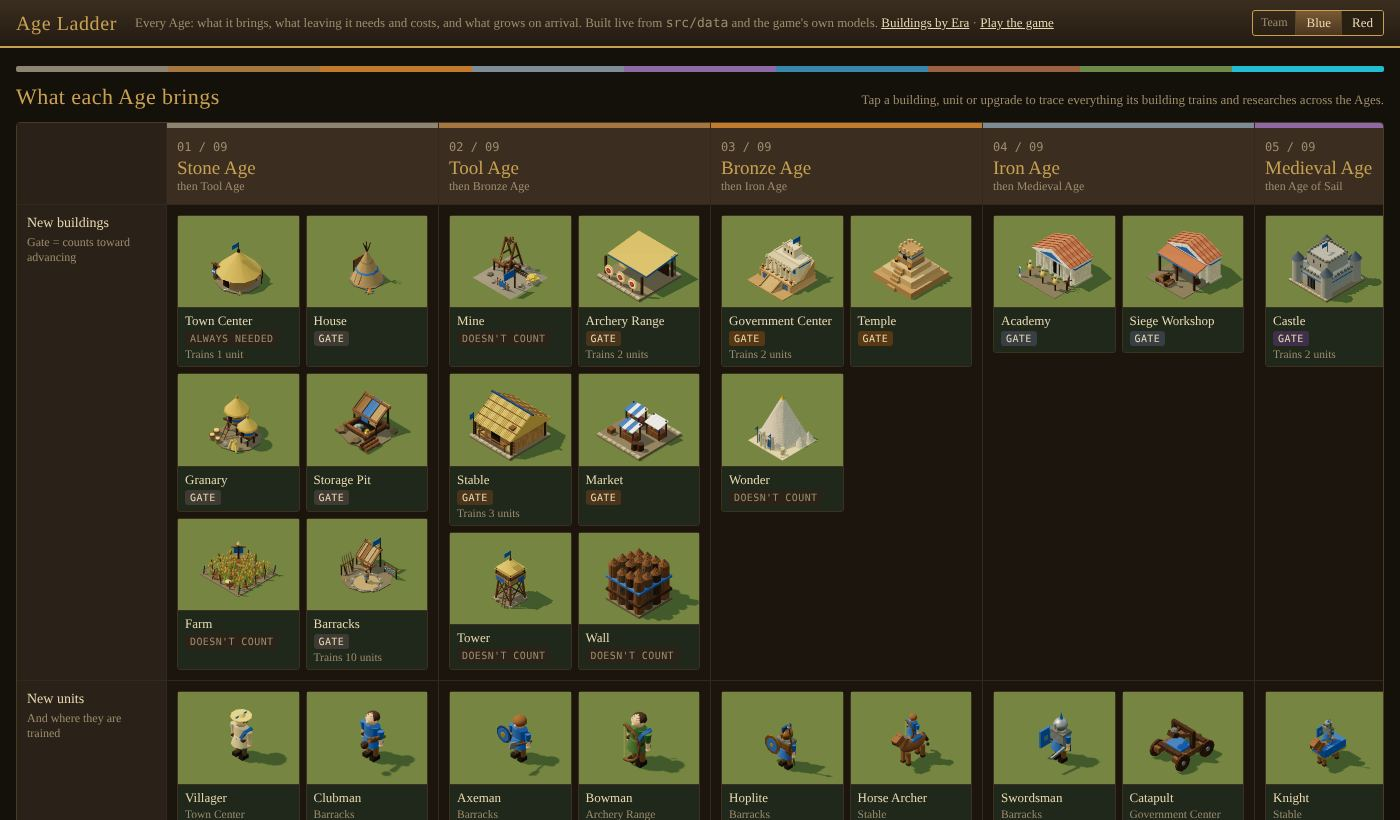
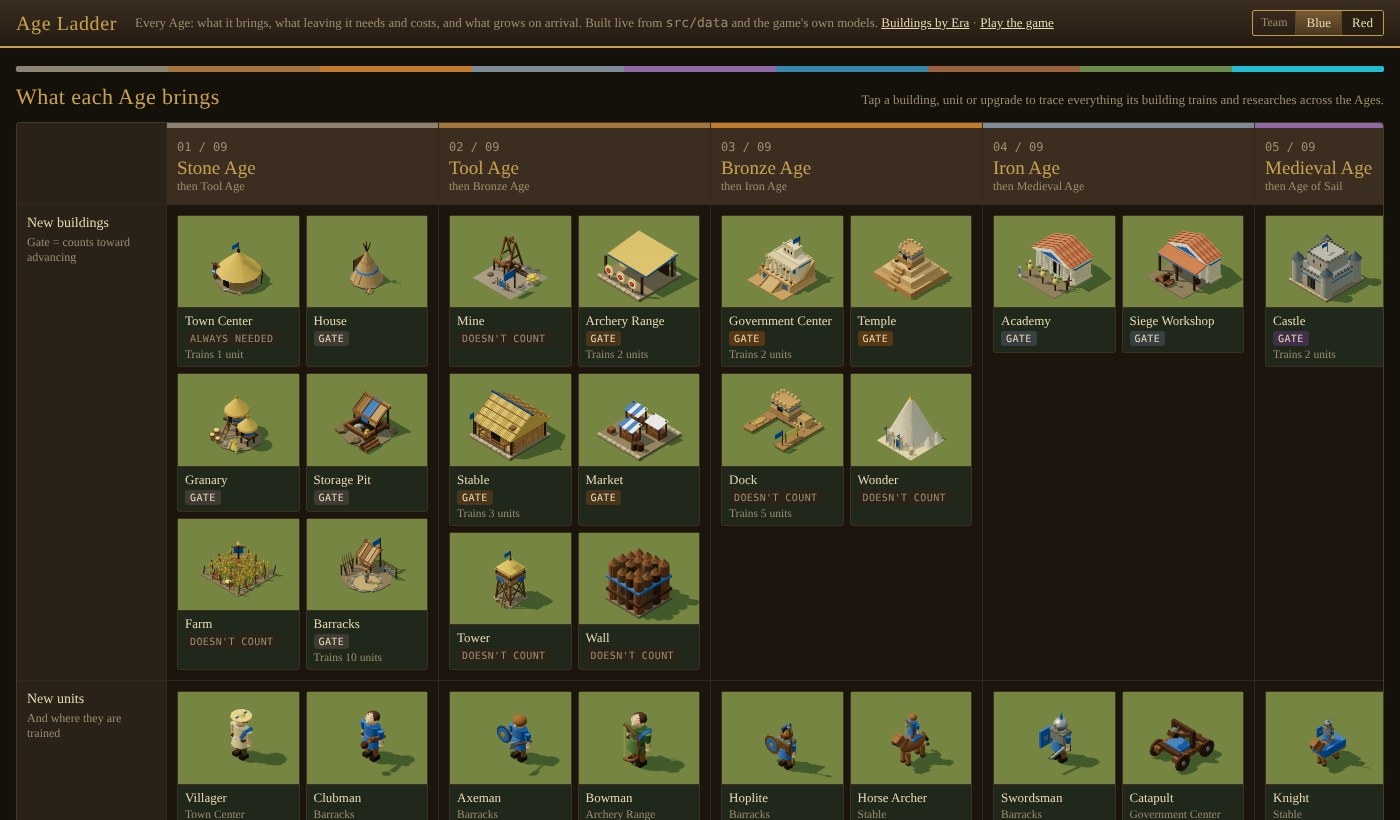
Refresh README screenshots with the river maps, Docks, ships and gate buildings
Same shots and framing as before, re-taken on the current build: the Wonder
Race base now shows a Temple and a Dock with War Galleys and a Transport Ship
in its home bay; the Industrial Death Match base shows the Railway Station and
Frigates, a War Galley and Fishing Ships at its Dock; the menu has the Map
picker and the bracket names the map; the buildings page shows the Government
Center, Temple, Dock and Wonder rows from Bronze to AI Future; the Age Ladder
lists the Dock. Village and phone shots are retaken on the river map.

Claude-Session: https://claude.ai/code/session_01MdCpitpKBuNaveMiWFMjkG

Changed region(s): [[0.5221, 0.4573, 0.7064, 0.6098], [0.5221, 0.5793, 0.5529, 0.6402], [0.8293, 0.3049, 0.86, 0.3354]]

diff --git a/README.md b/README.md
@@ -6,7 +6,7 @@ Capture the Relics. Lose once and you're out.
 
 **Play it in the browser: https://ggrocco.github.io/age_of_knockout/**
 
-![A Bronze Age base in Wonder Race: mud-brick houses, two towers and a Wonder under construction](docs/screenshots/wonder.jpg)
+![A Bronze Age base in Wonder Race: mud-brick houses, towers, a Temple and a Wonder under construction, with a Dock, War Galleys and a Transport Ship in the home bay](docs/screenshots/wonder.jpg)
 
 ## Run
 
@@ -24,7 +24,7 @@ For hardware render measurements, start the dev server and open `http://localhos
 
 ## How a tournament works
 
-![Main menu: time-limit slider, difficulty picker, Begin Tournament and five quick-match buttons](docs/screenshots/menu-time-limit.png)
+![Main menu: difficulty and map pickers, time-limit slider, Begin Tournament and five quick-match buttons](docs/screenshots/menu-time-limit.png)
 
 Pick a **difficulty**, set the **Time limit** slider, and press **Begin Tournament**, or jump straight into one
 game type with a **Quick** button. Both choices are saved in this browser.
@@ -40,7 +40,7 @@ Relaxed opponents work at half your speed and wait 30 minutes, and until the Bro
 Easy opponents keep a smaller army than medium and hard ones, but put their economy into reaching the next age and
 quickly replace lost villagers.
 
-![Round 1 bracket: you against Ramses, the other fifteen first-round pairings, and the later rounds still to play](docs/screenshots/bracket.jpg)
+![Round 1 bracket: the rules, time limit and map, you against Ramses, the other first-round pairings, and the later rounds still to play](docs/screenshots/bracket.jpg)
 
 Before each round the bracket shows the rules, the time limit and your opponent. **Back to menu** returns to the
 main menu before round 1; from round 2 on the button reads **Leave tournament** and asks to confirm, since leaving
@@ -109,7 +109,7 @@ Farms grow with the eras too: a Farm holds 400 food in the Stone Age, then 500, 
 1800 in AI Future, and villagers work it faster (normal speed in Stone, up to 2.4x in AI Future). When you advance,
 every Farm you already have grows to the new size and keeps its share of food left.
 
-![Industrial Age Death Match base: brick houses with chimneys, a factory, a castle and red-brick towers](docs/screenshots/deathmatch.jpg)
+![Industrial Age Death Match base: brick houses with chimneys, a factory, a railway station and red-brick towers, with Frigates, a War Galley and Fishing Ships at the Dock](docs/screenshots/deathmatch.jpg)
 
 **Towers and walls** get stronger when you advance: every existing tower and wall section re-scales to your current
 era, and the tower's weapon changes with it (arrows, cannon, machine guns, beams). Draw a wall by dragging its line (on touch: tap
@@ -212,7 +212,7 @@ real iPhone.
 
 ## Buildings by era
 
-![buildings.html: Town Center, House, Granary, Storage Pit and Farm rendered in every era from Stone to Modern](docs/screenshots/gallery.jpg)
+![buildings.html: Government Center, Temple, Dock and Wonder rendered in every era from Bronze to AI Future, with what each trains and researches](docs/screenshots/gallery.jpg)
 
 Open `http://localhost:8000/buildings.html` to see every building in every era, rendered with the game's own
 models. Under each era it lists what the building trains by then and any upgrade it can start researching in that
@@ -221,7 +221,7 @@ reads `src/data`, so new eras and buildings appear on reload.
 
 ## Age Ladder
 
-![ages.html: the Stone to Medieval Ages with the buildings and units each one brings](docs/screenshots/age-ladder.jpg)
+![ages.html: the Stone to Medieval Ages with the buildings (the Dock among them) and units each one brings](docs/screenshots/age-ladder.jpg)
 
 [Open the Age Ladder](https://ggrocco.github.io/age_of_knockout/ages.html) (or `http://localhost:8000/ages.html`) to see
 every Age side by side: the buildings and units it brings, rendered with the game's own models; which buildings you
